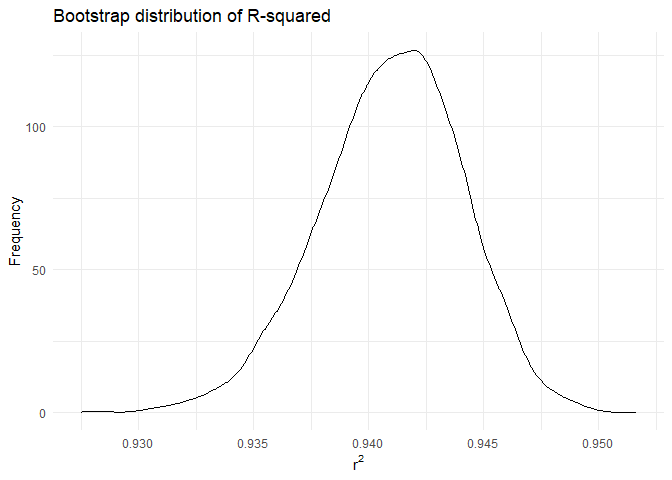
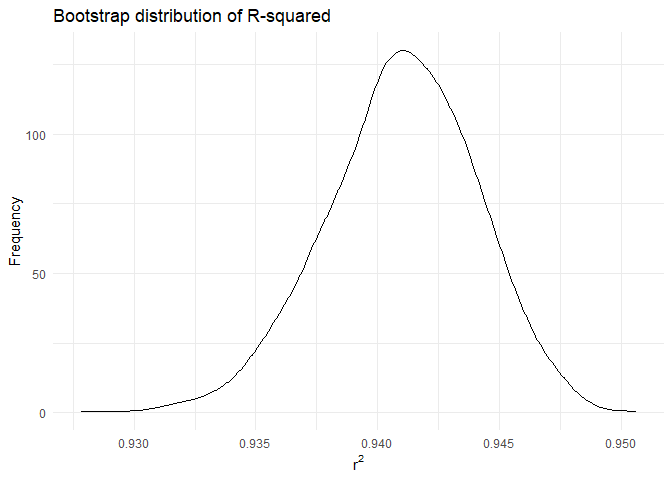
compare models

diff --git a/p8105_hw6_rd3227.md b/p8105_hw6_rd3227.md
@@ -227,8 +227,8 @@ bootstrap_results |>
 
 | estimate   |     CI_lower |     CI_upper |
 |:-----------|-------------:|-------------:|
-| beta_ratio | -273.6612350 | -125.4766586 |
-| r2         |    0.9344829 |    0.9466057 |
+| beta_ratio | -277.0724379 | -125.6524628 |
+| r2         |    0.9345199 |    0.9467296 |
 
 # Problem 3
 
@@ -352,8 +352,74 @@ bwt_df |>
 
 ![](p8105_hw6_rd3227_files/figure-gfm/unnamed-chunk-12-1.png)<!-- -->
 
+I first fit an initial full linear regression model (bwt_model_0)
+including all available predictors of birthweight. Then I used
+broom::tidy() to examine the coefficient table and identified predictors
+with p-values \< 0.05 (excluding the intercept). Based on these results,
+I refit a reduced model (bwt_model_1) that keeps only the significant
+variables (baby’s sex, head circumference, length, maternal delivery
+weight, gestational age, maternal race, parity, and smoking), yielding a
+more parsimonious model.
+
 The residuals are roughly centered around zero with no strong pattern
 across fitted birthweights, suggesting the linearity assumption is
 reasonable and variance is approximately constant. A few large residuals
 appear as outliers, but there is no obvious severe violation of model
 assumptions.
+
+Compare with two other models.
+
+``` r
+model_1 = bwt ~ babysex + bhead + blength + delwt + gaweeks + mrace + parity + smoken
+model_2 = bwt ~ blength + gaweeks
+model_3 = bwt ~ bhead * blength * babysex
+```
+
+Cross validate.
+
+``` r
+cv_df = 
+  crossv_mc(bwt_df, n = 100) |>
+  mutate(
+    train = map(train, as_tibble),
+    test = map(test, as_tibble)
+  ) |> 
+  mutate(
+    bwt_mod_1 = map(train, \(df) lm(model_1, data = df)),
+    bwt_mod_2 = map(train, \(df) lm(model_2, data = df)),
+    bwt_mod_3 = map(train, \(df) lm(model_3, data = df))
+  ) |> 
+  mutate(
+    rmse_1 = map2_dbl(bwt_mod_1, test, rmse),
+    rmse_2 = map2_dbl(bwt_mod_2, test, rmse),
+    rmse_3 = map2_dbl(bwt_mod_3, test, rmse)
+  )
+```
+
+    ## Warning: There was 1 warning in `mutate()`.
+    ## ℹ In argument: `rmse_1 = map2_dbl(bwt_mod_1, test, rmse)`.
+    ## Caused by warning in `predict.lm()`:
+    ## ! prediction from rank-deficient fit; attr(*, "non-estim") has doubtful cases
+
+Plot the rmse of each model.
+
+``` r
+cv_df |> 
+  select(starts_with("rmse")) |> 
+  pivot_longer(
+    everything(), 
+    names_to = "model", 
+    values_to = "rmse", 
+    names_prefix = "rmse_"
+  ) |> 
+  ggplot(aes(x = model , y = rmse)) +
+  geom_violin() +
+  theme_minimal()
+```
+
+![](p8105_hw6_rd3227_files/figure-gfm/unnamed-chunk-15-1.png)<!-- -->
+
+The plot shows the cross-validated RMSE distributions for the three
+models. Model 1 has RMSE values concentrated at the lowest level, Model
+2 has the highest RMSE values, and Model 3’s RMSE values lie between
+those of Models 1 and 2.
